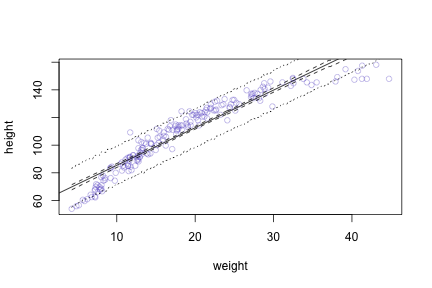
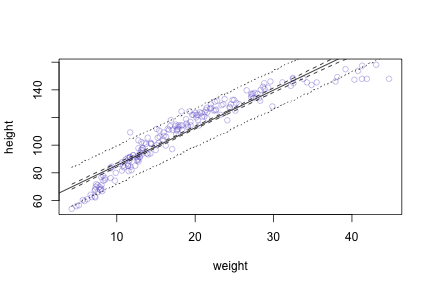
HW3: pr3 revised to use exp (necessary?)

diff --git a/hw3ashander.tex b/hw3ashander.tex
@@ -456,8 +456,8 @@ Note that $h_i$ is column `height` and $w_i$ is column `weight` in the data fram
 \hlstd{}{\ }{\ }{\ }{\ }\hlargument{sd}{\ }\hlargument{=}{\ }\hlsymbol{sigma}\hlkeyword{)}\hlkeyword{,}{\ }\hlargument{data}{\ }\hlargument{=}{\ }\hlsymbol{d2}\hlkeyword{,}{\ }\hlargument{start}{\ }\hlargument{=}{\ }\hlfunctioncall{list}\hlkeyword{(}\hlargument{alpha}{\ }\hlargument{=}{\ }\hlfunctioncall{mean}\hlkeyword{(}\hlsymbol{d2}\hlkeyword{\usebox{\hlnormalsizeboxdollar}}\hlsymbol{height}\hlkeyword{)}\hlkeyword{,}{\ }\hlargument{beta}{\ }\hlargument{=}{\ }\hlnumber{0}\hlkeyword{,}\hspace*{\fill}\\
 \hlstd{}{\ }{\ }{\ }{\ }\hlargument{sigma}{\ }\hlargument{=}{\ }\hlfunctioncall{sd}\hlkeyword{(}\hlsymbol{d2}\hlkeyword{\usebox{\hlnormalsizeboxdollar}}\hlsymbol{height}\hlkeyword{)}\hlkeyword{)}\hlkeyword{)}\hspace*{\fill}\\
 \hlstd{}\hlsymbol{known.weights}{\ }\hlassignement{\usebox{\hlnormalsizeboxlessthan}-}{\ }\hlfunctioncall{c}\hlkeyword{(}\hlnumber{46.95}\hlkeyword{,}{\ }\hlnumber{43.72}\hlkeyword{,}{\ }\hlnumber{64.78}\hlkeyword{,}{\ }\hlnumber{32.59}\hlkeyword{,}{\ }\hlnumber{54.63}\hlkeyword{)}\hspace*{\fill}\\
-\hlstd{}\hlsymbol{post.samples}{\ }\hlassignement{\usebox{\hlnormalsizeboxlessthan}-}{\ }\hlfunctioncall{as.data.frame}\hlkeyword{(}\hlfunctioncall{mvrnorm}\hlkeyword{(}\hlfunctioncall{length}\hlkeyword{(}\hlsymbol{d2}\hlkeyword{\usebox{\hlnormalsizeboxdollar}}\hlsymbol{height}\hlkeyword{)}\hlkeyword{,}\hspace*{\fill}\\
-\hlstd{}{\ }{\ }{\ }{\ }\hlargument{mu}{\ }\hlargument{=}{\ }\hlfunctioncall{coef}\hlkeyword{(}\hlsymbol{mle.hw}\hlkeyword{)}\hlkeyword{,}{\ }\hlargument{Sigma}{\ }\hlargument{=}{\ }\hlfunctioncall{vcov}\hlkeyword{(}\hlsymbol{mle.hw}\hlkeyword{)}\hlkeyword{)}\hlkeyword{)}\hspace*{\fill}\\
+\hlstd{}\hlsymbol{post}{\ }\hlassignement{\usebox{\hlnormalsizeboxlessthan}-}{\ }\hlfunctioncall{as.data.frame}\hlkeyword{(}\hlfunctioncall{mvrnorm}\hlkeyword{(}\hlfunctioncall{length}\hlkeyword{(}\hlsymbol{d2}\hlkeyword{\usebox{\hlnormalsizeboxdollar}}\hlsymbol{height}\hlkeyword{)}\hlkeyword{,}{\ }\hlargument{mu}{\ }\hlargument{=}{\ }\hlfunctioncall{coef}\hlkeyword{(}\hlsymbol{mle.hw}\hlkeyword{)}\hlkeyword{,}\hspace*{\fill}\\
+\hlstd{}{\ }{\ }{\ }{\ }\hlargument{Sigma}{\ }\hlargument{=}{\ }\hlfunctioncall{vcov}\hlkeyword{(}\hlsymbol{mle.hw}\hlkeyword{)}\hlkeyword{)}\hlkeyword{)}\hspace*{\fill}\\
 \hlstd{}\hlsymbol{Pred.mean}{\ }\hlassignement{\usebox{\hlnormalsizeboxlessthan}-}{\ }\hlkeyword{function}\hlkeyword{(}\hlformalargs{x}\hlkeyword{)}{\ }\hlkeyword{\usebox{\hlnormalsizeboxopenbrace}}\hspace*{\fill}\\
 \hlstd{}{\ }{\ }{\ }{\ }\hlsymbol{ret}{\ }\hlassignement{\usebox{\hlnormalsizeboxlessthan}-}{\ }\hlfunctioncall{coef}\hlkeyword{(}\hlsymbol{mle.hw}\hlkeyword{)}\hlkeyword{[}\hlstring{"alpha"}\hlkeyword{]}{\ }\hlkeyword{+}{\ }\hlfunctioncall{coef}\hlkeyword{(}\hlsymbol{mle.hw}\hlkeyword{)}\hlkeyword{[}\hlstring{"beta"}\hlkeyword{]}{\ }\hlkeyword{*}{\ }\hlsymbol{x}\hspace*{\fill}\\
 \hlstd{}{\ }{\ }{\ }{\ }\hlfunctioncall{names}\hlkeyword{(}\hlsymbol{ret}\hlkeyword{)}{\ }\hlassignement{\usebox{\hlnormalsizeboxlessthan}-}{\ }\hlfunctioncall{c}\hlkeyword{(}\hlstring{""}\hlkeyword{)}\hspace*{\fill}\\
@@ -465,8 +465,8 @@ Note that $h_i$ is column `height` and $w_i$ is column `weight` in the data fram
 \hlstd{}\hlkeyword{\usebox{\hlnormalsizeboxclosebrace}}\hspace*{\fill}\\
 \hlstd{}\hspace*{\fill}\\
 \hlstd{}\hlsymbol{height.PI}{\ }\hlassignement{\usebox{\hlnormalsizeboxlessthan}-}{\ }\hlfunctioncall{sapply}\hlkeyword{(}\hlsymbol{known.weights}\hlkeyword{,}{\ }\hlkeyword{function}\hlkeyword{(}\hlformalargs{x}\hlkeyword{)}{\ }\hlkeyword{\usebox{\hlnormalsizeboxopenbrace}}\hspace*{\fill}\\
-\hlstd{}{\ }{\ }{\ }{\ }\hlfunctioncall{HPDI}\hlkeyword{(}\hlfunctioncall{rnorm}\hlkeyword{(}\hlargument{n}{\ }\hlargument{=}{\ }\hlnumber{10000}\hlkeyword{,}{\ }\hlargument{mean}{\ }\hlargument{=}{\ }\hlsymbol{post.samples}\hlkeyword{\usebox{\hlnormalsizeboxdollar}}\hlsymbol{alpha}{\ }\hlkeyword{+}{\ }\hlsymbol{post.samples}\hlkeyword{\usebox{\hlnormalsizeboxdollar}}\hlsymbol{beta}{\ }\hlkeyword{*}\hspace*{\fill}\\
-\hlstd{}{\ }{\ }{\ }{\ }{\ }{\ }{\ }{\ }\hlsymbol{x}\hlkeyword{,}{\ }\hlargument{sd}{\ }\hlargument{=}{\ }\hlsymbol{post.samples}\hlkeyword{\usebox{\hlnormalsizeboxdollar}}\hlsymbol{sigma}\hlkeyword{)}\hlkeyword{,}{\ }\hlargument{prob}{\ }\hlargument{=}{\ }\hlnumber{0.9}\hlkeyword{)}\hspace*{\fill}\\
+\hlstd{}{\ }{\ }{\ }{\ }\hlfunctioncall{HPDI}\hlkeyword{(}\hlfunctioncall{rnorm}\hlkeyword{(}\hlargument{n}{\ }\hlargument{=}{\ }\hlnumber{10000}\hlkeyword{,}{\ }\hlargument{mean}{\ }\hlargument{=}{\ }\hlsymbol{post}\hlkeyword{\usebox{\hlnormalsizeboxdollar}}\hlsymbol{alpha}{\ }\hlkeyword{+}{\ }\hlsymbol{post}\hlkeyword{\usebox{\hlnormalsizeboxdollar}}\hlsymbol{beta}{\ }\hlkeyword{*}{\ }\hlsymbol{x}\hlkeyword{,}{\ }\hlargument{sd}{\ }\hlargument{=}{\ }\hlsymbol{post}\hlkeyword{\usebox{\hlnormalsizeboxdollar}}\hlsymbol{sigma}\hlkeyword{)}\hlkeyword{,}\hspace*{\fill}\\
+\hlstd{}{\ }{\ }{\ }{\ }{\ }{\ }{\ }{\ }\hlargument{prob}{\ }\hlargument{=}{\ }\hlnumber{0.9}\hlkeyword{)}\hspace*{\fill}\\
 \hlstd{}\hlkeyword{\usebox{\hlnormalsizeboxclosebrace}}\hlkeyword{)}\hspace*{\fill}\\
 \hlstd{}\hlsymbol{height.mean}{\ }\hlassignement{\usebox{\hlnormalsizeboxlessthan}-}{\ }\hlfunctioncall{sapply}\hlkeyword{(}\hlsymbol{known.weights}\hlkeyword{,}{\ }\hlsymbol{Pred.mean}\hlkeyword{)}\hspace*{\fill}\\
 \hlstd{}\hspace*{\fill}\\
@@ -477,11 +477,11 @@ Note that $h_i$ is column `height` and $w_i$ is column `weight` in the data fram
 \end{flushleft}
 \begin{verbatim}
 ##  individual known.weights expected.height lower.90 upper.90
-##           1         46.95           156.4    147.8    164.6
-##           2         43.72           153.4    144.6    161.3
-##           3         64.78           172.5    164.1    180.8
-##           4         32.59           143.4    134.7    151.4
-##           5         54.63           163.3    155.2    171.8
+##           1         46.95           156.4    147.8    164.3
+##           2         43.72           153.4    145.0    161.5
+##           3         64.78           172.5    163.7    180.9
+##           4         32.59           143.4    135.2    151.8
+##           5         54.63           163.3    154.8    171.4
 \end{verbatim}
 \end{kframe}}
 \end{knitrout}
@@ -528,18 +528,18 @@ A simple interpretation of the coefficients implies:
 \begin{flushleft}
 \ttfamily\noindent
 \hlcomment{\usebox{\hlnormalsizeboxhash}sample{\ }posterior}\hspace*{\fill}\\
-\hlstd{}\hlsymbol{postY.samples}{\ }\hlassignement{\usebox{\hlnormalsizeboxlessthan}-}{\ }\hlfunctioncall{as.data.frame}\hlkeyword{(}\hlfunctioncall{mvrnorm}\hlkeyword{(}\hlfunctioncall{length}\hlkeyword{(}\hlsymbol{dY}\hlkeyword{\usebox{\hlnormalsizeboxdollar}}\hlsymbol{height}\hlkeyword{)}\hlkeyword{,}\hspace*{\fill}\\
-\hlstd{}{\ }{\ }{\ }{\ }\hlargument{mu}{\ }\hlargument{=}{\ }\hlfunctioncall{coef}\hlkeyword{(}\hlsymbol{mle.hwY}\hlkeyword{)}\hlkeyword{,}{\ }\hlargument{Sigma}{\ }\hlargument{=}{\ }\hlfunctioncall{vcov}\hlkeyword{(}\hlsymbol{mle.hwY}\hlkeyword{)}\hlkeyword{)}\hlkeyword{)}\hspace*{\fill}\\
+\hlstd{}\hlsymbol{postY}{\ }\hlassignement{\usebox{\hlnormalsizeboxlessthan}-}{\ }\hlfunctioncall{as.data.frame}\hlkeyword{(}\hlfunctioncall{mvrnorm}\hlkeyword{(}\hlfunctioncall{length}\hlkeyword{(}\hlsymbol{dY}\hlkeyword{\usebox{\hlnormalsizeboxdollar}}\hlsymbol{height}\hlkeyword{)}\hlkeyword{,}{\ }\hlargument{mu}{\ }\hlargument{=}{\ }\hlfunctioncall{coef}\hlkeyword{(}\hlsymbol{mle.hwY}\hlkeyword{)}\hlkeyword{,}\hspace*{\fill}\\
+\hlstd{}{\ }{\ }{\ }{\ }\hlargument{Sigma}{\ }\hlargument{=}{\ }\hlfunctioncall{vcov}\hlkeyword{(}\hlsymbol{mle.hwY}\hlkeyword{)}\hlkeyword{)}\hlkeyword{)}\hspace*{\fill}\\
 \hlstd{}\hspace*{\fill}\\
 \hlstd{}\hlcomment{\usebox{\hlnormalsizeboxhash}{\ }calculate{\ }CI{\ }for{\ }mean}\hspace*{\fill}\\
 \hlstd{}\hlsymbol{weight.range}{\ }\hlassignement{\usebox{\hlnormalsizeboxlessthan}-}{\ }\hlfunctioncall{seq}\hlkeyword{(}\hlfunctioncall{min}\hlkeyword{(}\hlsymbol{dY}\hlkeyword{\usebox{\hlnormalsizeboxdollar}}\hlsymbol{weight}\hlkeyword{)}\hlkeyword{,}{\ }\hlfunctioncall{max}\hlkeyword{(}\hlsymbol{dY}\hlkeyword{\usebox{\hlnormalsizeboxdollar}}\hlsymbol{weight}\hlkeyword{)}\hlkeyword{,}{\ }\hlnumber{0.2}\hlkeyword{)}\hspace*{\fill}\\
 \hlstd{}\hlsymbol{heightY.CI}{\ }\hlassignement{\usebox{\hlnormalsizeboxlessthan}-}{\ }\hlfunctioncall{sapply}\hlkeyword{(}\hlsymbol{weight.range}\hlkeyword{,}{\ }\hlkeyword{function}\hlkeyword{(}\hlformalargs{x}\hlkeyword{)}{\ }\hlkeyword{\usebox{\hlnormalsizeboxopenbrace}}\hspace*{\fill}\\
-\hlstd{}{\ }{\ }{\ }{\ }\hlfunctioncall{HPDI}\hlkeyword{(}\hlsymbol{postY.samples}\hlkeyword{\usebox{\hlnormalsizeboxdollar}}\hlsymbol{alpha}{\ }\hlkeyword{+}{\ }\hlsymbol{postY.samples}\hlkeyword{\usebox{\hlnormalsizeboxdollar}}\hlsymbol{beta}{\ }\hlkeyword{*}{\ }\hlsymbol{x}\hlkeyword{,}{\ }\hlargument{prob}{\ }\hlargument{=}{\ }\hlnumber{0.9}\hlkeyword{)}\hspace*{\fill}\\
+\hlstd{}{\ }{\ }{\ }{\ }\hlfunctioncall{HPDI}\hlkeyword{(}\hlsymbol{postY}\hlkeyword{\usebox{\hlnormalsizeboxdollar}}\hlsymbol{alpha}{\ }\hlkeyword{+}{\ }\hlsymbol{postY}\hlkeyword{\usebox{\hlnormalsizeboxdollar}}\hlsymbol{beta}{\ }\hlkeyword{*}{\ }\hlsymbol{x}\hlkeyword{,}{\ }\hlargument{prob}{\ }\hlargument{=}{\ }\hlnumber{0.9}\hlkeyword{)}\hspace*{\fill}\\
 \hlstd{}\hlkeyword{\usebox{\hlnormalsizeboxclosebrace}}\hlkeyword{)}\hspace*{\fill}\\
 \hlstd{}\hlcomment{\usebox{\hlnormalsizeboxhash}{\ }calculate{\ }PI{\ }for{\ }mean}\hspace*{\fill}\\
 \hlstd{}\hlsymbol{heightY.PI}{\ }\hlassignement{\usebox{\hlnormalsizeboxlessthan}-}{\ }\hlfunctioncall{sapply}\hlkeyword{(}\hlsymbol{weight.range}\hlkeyword{,}{\ }\hlkeyword{function}\hlkeyword{(}\hlformalargs{x}\hlkeyword{)}{\ }\hlkeyword{\usebox{\hlnormalsizeboxopenbrace}}\hspace*{\fill}\\
-\hlstd{}{\ }{\ }{\ }{\ }\hlfunctioncall{HPDI}\hlkeyword{(}\hlfunctioncall{rnorm}\hlkeyword{(}\hlnumber{10000}\hlkeyword{,}{\ }\hlargument{mean}{\ }\hlargument{=}{\ }\hlkeyword{(}\hlsymbol{postY.samples}\hlkeyword{\usebox{\hlnormalsizeboxdollar}}\hlsymbol{alpha}{\ }\hlkeyword{+}{\ }\hlsymbol{postY.samples}\hlkeyword{\usebox{\hlnormalsizeboxdollar}}\hlsymbol{beta}{\ }\hlkeyword{*}\hspace*{\fill}\\
-\hlstd{}{\ }{\ }{\ }{\ }{\ }{\ }{\ }{\ }\hlsymbol{x}\hlkeyword{)}\hlkeyword{,}{\ }\hlargument{sd}{\ }\hlargument{=}{\ }\hlsymbol{postY.samples}\hlkeyword{\usebox{\hlnormalsizeboxdollar}}\hlsymbol{sigma}\hlkeyword{)}\hlkeyword{,}{\ }\hlargument{prob}{\ }\hlargument{=}{\ }\hlnumber{0.9}\hlkeyword{)}\hspace*{\fill}\\
+\hlstd{}{\ }{\ }{\ }{\ }\hlfunctioncall{HPDI}\hlkeyword{(}\hlfunctioncall{rnorm}\hlkeyword{(}\hlnumber{10000}\hlkeyword{,}{\ }\hlargument{mean}{\ }\hlargument{=}{\ }\hlkeyword{(}\hlsymbol{postY}\hlkeyword{\usebox{\hlnormalsizeboxdollar}}\hlsymbol{alpha}{\ }\hlkeyword{+}{\ }\hlsymbol{postY}\hlkeyword{\usebox{\hlnormalsizeboxdollar}}\hlsymbol{beta}{\ }\hlkeyword{*}{\ }\hlsymbol{x}\hlkeyword{)}\hlkeyword{,}{\ }\hlargument{sd}{\ }\hlargument{=}{\ }\hlsymbol{postY}\hlkeyword{\usebox{\hlnormalsizeboxdollar}}\hlsymbol{sigma}\hlkeyword{)}\hlkeyword{,}\hspace*{\fill}\\
+\hlstd{}{\ }{\ }{\ }{\ }{\ }{\ }{\ }{\ }\hlargument{prob}{\ }\hlargument{=}{\ }\hlnumber{0.9}\hlkeyword{)}\hspace*{\fill}\\
 \hlstd{}\hlkeyword{\usebox{\hlnormalsizeboxclosebrace}}\hlkeyword{)}\hspace*{\fill}\\
 \hlstd{}\hspace*{\fill}\\
 \hlstd{}\hlcomment{\usebox{\hlnormalsizeboxhash}{\ }plot{\ }TODO:{\ }clean{\ }this{\ }up,{\ }maybe{\ }rewrite{\ }as{\ }ggplot}\hspace*{\fill}\\
@@ -586,11 +586,11 @@ First, we fit model, using a quadratic approximation of the likelihood
 \definecolor{shadecolor}{rgb}{.97, .97, .97}{\color{fgcolor}\begin{kframe}
 \begin{flushleft}
 \ttfamily\noindent
-\hlsymbol{d.f}{\ }\hlassignement{\usebox{\hlnormalsizeboxlessthan}-}{\ }\hlsymbol{Howell1}\hspace*{\fill}\\
-\hlstd{}\hlsymbol{d.f}\hlkeyword{\usebox{\hlnormalsizeboxdollar}}\hlsymbol{logw}{\ }\hlassignement{\usebox{\hlnormalsizeboxlessthan}-}{\ }\hlfunctioncall{log}\hlkeyword{(}\hlsymbol{d.f}\hlkeyword{\usebox{\hlnormalsizeboxdollar}}\hlsymbol{weight}\hlkeyword{)}\hspace*{\fill}\\
-\hlstd{}\hlsymbol{mle.loghw}{\ }\hlassignement{\usebox{\hlnormalsizeboxlessthan}-}{\ }\hlfunctioncall{mle2}\hlkeyword{(}\hlsymbol{height}{\ }\hlkeyword{\urltilda{}}{\ }\hlfunctioncall{dnorm}\hlkeyword{(}\hlargument{mean}{\ }\hlargument{=}{\ }\hlsymbol{alpha}{\ }\hlkeyword{+}{\ }\hlsymbol{beta}{\ }\hlkeyword{*}{\ }\hlsymbol{logw}\hlkeyword{,}\hspace*{\fill}\\
-\hlstd{}{\ }{\ }{\ }{\ }\hlargument{sd}{\ }\hlargument{=}{\ }\hlsymbol{sigma}\hlkeyword{)}\hlkeyword{,}{\ }\hlargument{data}{\ }\hlargument{=}{\ }\hlsymbol{d.f}\hlkeyword{,}{\ }\hlargument{start}{\ }\hlargument{=}{\ }\hlfunctioncall{list}\hlkeyword{(}\hlargument{alpha}{\ }\hlargument{=}{\ }\hlfunctioncall{mean}\hlkeyword{(}\hlsymbol{d.f}\hlkeyword{\usebox{\hlnormalsizeboxdollar}}\hlsymbol{height}\hlkeyword{)}\hlkeyword{,}\hspace*{\fill}\\
-\hlstd{}{\ }{\ }{\ }{\ }\hlargument{beta}{\ }\hlargument{=}{\ }\hlnumber{0}\hlkeyword{,}{\ }\hlargument{sigma}{\ }\hlargument{=}{\ }\hlfunctioncall{sd}\hlkeyword{(}\hlsymbol{d.f}\hlkeyword{\usebox{\hlnormalsizeboxdollar}}\hlsymbol{height}\hlkeyword{)}\hlkeyword{)}\hlkeyword{)}\hspace*{\fill}\\
+\hlsymbol{d}{\ }\hlassignement{\usebox{\hlnormalsizeboxlessthan}-}{\ }\hlsymbol{Howell1}\hspace*{\fill}\\
+\hlstd{}\hlsymbol{d}\hlkeyword{\usebox{\hlnormalsizeboxdollar}}\hlsymbol{log.w}{\ }\hlassignement{\usebox{\hlnormalsizeboxlessthan}-}{\ }\hlfunctioncall{log}\hlkeyword{(}\hlsymbol{d}\hlkeyword{\usebox{\hlnormalsizeboxdollar}}\hlsymbol{weight}\hlkeyword{)}\hspace*{\fill}\\
+\hlstd{}\hlsymbol{mle.loghw}{\ }\hlassignement{\usebox{\hlnormalsizeboxlessthan}-}{\ }\hlfunctioncall{mle2}\hlkeyword{(}\hlsymbol{height}{\ }\hlkeyword{\urltilda{}}{\ }\hlfunctioncall{dnorm}\hlkeyword{(}\hlargument{mean}{\ }\hlargument{=}{\ }\hlsymbol{alpha}{\ }\hlkeyword{+}{\ }\hlsymbol{beta}{\ }\hlkeyword{*}{\ }\hlsymbol{log.w}\hlkeyword{,}\hspace*{\fill}\\
+\hlstd{}{\ }{\ }{\ }{\ }\hlargument{sd}{\ }\hlargument{=}{\ }\hlsymbol{sigma}\hlkeyword{)}\hlkeyword{,}{\ }\hlargument{data}{\ }\hlargument{=}{\ }\hlsymbol{d}\hlkeyword{,}{\ }\hlargument{start}{\ }\hlargument{=}{\ }\hlfunctioncall{list}\hlkeyword{(}\hlargument{alpha}{\ }\hlargument{=}{\ }\hlfunctioncall{mean}\hlkeyword{(}\hlsymbol{d}\hlkeyword{\usebox{\hlnormalsizeboxdollar}}\hlsymbol{height}\hlkeyword{)}\hlkeyword{,}{\ }\hlargument{beta}{\ }\hlargument{=}{\ }\hlnumber{0}\hlkeyword{,}\hspace*{\fill}\\
+\hlstd{}{\ }{\ }{\ }{\ }\hlargument{sigma}{\ }\hlargument{=}{\ }\hlfunctioncall{sd}\hlkeyword{(}\hlsymbol{d}\hlkeyword{\usebox{\hlnormalsizeboxdollar}}\hlsymbol{height}\hlkeyword{)}\hlkeyword{)}\hlkeyword{)}\hspace*{\fill}\\
 \hlstd{}\hlfunctioncall{precis}\hlkeyword{(}\hlsymbol{mle.loghw}\hlkeyword{)}\mbox{}
 \normalfont
 \end{flushleft}
@@ -606,47 +606,97 @@ First, we fit model, using a quadratic approximation of the likelihood
 
 \subsubsection{(b)}
 
+The model above is equivalent to
+
+\[\begin{split}h_i \sim Normal(\mu_i, \sigma)\\ \mu_i =\alpha+\beta y_i\\ y_i = \log(w_i),\end{split}\]
+where $h_i$ is the height (in cm), and $w_i$ the weight (in kg) and $y_i$ log weight (in log-kg), of individual $i$. 
+
+
+Now we plot observations $h_i$ against $w_i$, as well as predicted means and 95\% HPDI for mean and predicted heights. 
+In practice, this means plotting
+\begin{itemize}
+  \item $h_i$ against $\exp(y_i)$
+  \item HPDIs computed for each $y_i$ against $\exp(y_i)$
+\end{itemize}
+
+For the mean prediction, however, we directly plot the curve
+\[
+\bar h = \alpha + \beta \log(w_i)
+\]
+
+    
 \begin{knitrout}
 \definecolor{shadecolor}{rgb}{.97, .97, .97}{\color{fgcolor}\begin{kframe}
 \begin{flushleft}
 \ttfamily\noindent
 \hlcomment{\usebox{\hlnormalsizeboxhash}sample{\ }posterior}\hspace*{\fill}\\
-\hlstd{}\hlsymbol{post.full.samples}{\ }\hlassignement{\usebox{\hlnormalsizeboxlessthan}-}{\ }\hlfunctioncall{as.data.frame}\hlkeyword{(}\hlfunctioncall{mvrnorm}\hlkeyword{(}\hlfunctioncall{length}\hlkeyword{(}\hlsymbol{d.f}\hlkeyword{\usebox{\hlnormalsizeboxdollar}}\hlsymbol{height}\hlkeyword{)}\hlkeyword{,}\hspace*{\fill}\\
-\hlstd{}{\ }{\ }{\ }{\ }\hlargument{mu}{\ }\hlargument{=}{\ }\hlfunctioncall{coef}\hlkeyword{(}\hlsymbol{mle.loghw}\hlkeyword{)}\hlkeyword{,}{\ }\hlargument{Sigma}{\ }\hlargument{=}{\ }\hlfunctioncall{vcov}\hlkeyword{(}\hlsymbol{mle.loghw}\hlkeyword{)}\hlkeyword{)}\hlkeyword{)}\hspace*{\fill}\\
+\hlstd{}\hlsymbol{post}{\ }\hlassignement{\usebox{\hlnormalsizeboxlessthan}-}{\ }\hlfunctioncall{as.data.frame}\hlkeyword{(}\hlfunctioncall{mvrnorm}\hlkeyword{(}\hlfunctioncall{length}\hlkeyword{(}\hlsymbol{d}\hlkeyword{\usebox{\hlnormalsizeboxdollar}}\hlsymbol{height}\hlkeyword{)}\hlkeyword{,}{\ }\hlargument{mu}{\ }\hlargument{=}{\ }\hlfunctioncall{coef}\hlkeyword{(}\hlsymbol{mle.loghw}\hlkeyword{)}\hlkeyword{,}\hspace*{\fill}\\
+\hlstd{}{\ }{\ }{\ }{\ }\hlargument{Sigma}{\ }\hlargument{=}{\ }\hlfunctioncall{vcov}\hlkeyword{(}\hlsymbol{mle.loghw}\hlkeyword{)}\hlkeyword{)}\hlkeyword{)}\hspace*{\fill}\\
 \hlstd{}\hspace*{\fill}\\
 \hlstd{}\hlcomment{\usebox{\hlnormalsizeboxhash}{\ }calculate{\ }CI{\ }for{\ }mean}\hspace*{\fill}\\
-\hlstd{}\hlsymbol{weight.range}{\ }\hlassignement{\usebox{\hlnormalsizeboxlessthan}-}{\ }\hlfunctioncall{seq}\hlkeyword{(}\hlfunctioncall{min}\hlkeyword{(}\hlsymbol{d.f}\hlkeyword{\usebox{\hlnormalsizeboxdollar}}\hlsymbol{weight}\hlkeyword{)}\hlkeyword{,}{\ }\hlfunctioncall{max}\hlkeyword{(}\hlsymbol{d.f}\hlkeyword{\usebox{\hlnormalsizeboxdollar}}\hlsymbol{weight}\hlkeyword{)}\hlkeyword{,}{\ }\hlnumber{0.2}\hlkeyword{)}\hspace*{\fill}\\
-\hlstd{}\hlsymbol{heightf.CI}{\ }\hlassignement{\usebox{\hlnormalsizeboxlessthan}-}{\ }\hlfunctioncall{sapply}\hlkeyword{(}\hlsymbol{weight.range}\hlkeyword{,}{\ }\hlkeyword{function}\hlkeyword{(}\hlformalargs{x}\hlkeyword{)}{\ }\hlkeyword{\usebox{\hlnormalsizeboxopenbrace}}\hspace*{\fill}\\
-\hlstd{}{\ }{\ }{\ }{\ }\hlfunctioncall{HPDI}\hlkeyword{(}\hlsymbol{post.full.samples}\hlkeyword{\usebox{\hlnormalsizeboxdollar}}\hlsymbol{alpha}{\ }\hlkeyword{+}{\ }\hlsymbol{post.full.samples}\hlkeyword{\usebox{\hlnormalsizeboxdollar}}\hlsymbol{beta}{\ }\hlkeyword{*}{\ }\hlfunctioncall{log}\hlkeyword{(}\hlsymbol{x}\hlkeyword{)}\hlkeyword{,}\hspace*{\fill}\\
-\hlstd{}{\ }{\ }{\ }{\ }{\ }{\ }{\ }{\ }\hlargument{prob}{\ }\hlargument{=}{\ }\hlnumber{0.95}\hlkeyword{)}\hspace*{\fill}\\
+\hlstd{}\hlsymbol{log.w.range}{\ }\hlassignement{\usebox{\hlnormalsizeboxlessthan}-}{\ }\hlfunctioncall{seq}\hlkeyword{(}\hlfunctioncall{min}\hlkeyword{(}\hlsymbol{d}\hlkeyword{\usebox{\hlnormalsizeboxdollar}}\hlsymbol{log.w}\hlkeyword{)}\hlkeyword{,}{\ }\hlfunctioncall{max}\hlkeyword{(}\hlsymbol{d}\hlkeyword{\usebox{\hlnormalsizeboxdollar}}\hlsymbol{log.w}\hlkeyword{)}\hlkeyword{,}{\ }\hlargument{length.out}{\ }\hlargument{=}{\ }\hlnumber{60}\hlkeyword{)}\hspace*{\fill}\\
+\hlstd{}\hlsymbol{heightf.CI}{\ }\hlassignement{\usebox{\hlnormalsizeboxlessthan}-}{\ }\hlfunctioncall{sapply}\hlkeyword{(}\hlsymbol{log.w.range}\hlkeyword{,}{\ }\hlkeyword{function}\hlkeyword{(}\hlformalargs{x}\hlkeyword{)}{\ }\hlkeyword{\usebox{\hlnormalsizeboxopenbrace}}\hspace*{\fill}\\
+\hlstd{}{\ }{\ }{\ }{\ }\hlfunctioncall{HPDI}\hlkeyword{(}\hlsymbol{post}\hlkeyword{\usebox{\hlnormalsizeboxdollar}}\hlsymbol{alpha}{\ }\hlkeyword{+}{\ }\hlsymbol{post}\hlkeyword{\usebox{\hlnormalsizeboxdollar}}\hlsymbol{beta}{\ }\hlkeyword{*}{\ }\hlsymbol{x}\hlkeyword{,}{\ }\hlargument{prob}{\ }\hlargument{=}{\ }\hlnumber{0.95}\hlkeyword{)}\hspace*{\fill}\\
 \hlstd{}\hlkeyword{\usebox{\hlnormalsizeboxclosebrace}}\hlkeyword{)}\hspace*{\fill}\\
 \hlstd{}\hlcomment{\usebox{\hlnormalsizeboxhash}{\ }calculate{\ }PI{\ }for{\ }mean}\hspace*{\fill}\\
-\hlstd{}\hlsymbol{heightf.PI}{\ }\hlassignement{\usebox{\hlnormalsizeboxlessthan}-}{\ }\hlfunctioncall{sapply}\hlkeyword{(}\hlsymbol{weight.range}\hlkeyword{,}{\ }\hlkeyword{function}\hlkeyword{(}\hlformalargs{x}\hlkeyword{)}{\ }\hlkeyword{\usebox{\hlnormalsizeboxopenbrace}}\hspace*{\fill}\\
-\hlstd{}{\ }{\ }{\ }{\ }\hlfunctioncall{HPDI}\hlkeyword{(}\hlfunctioncall{rnorm}\hlkeyword{(}\hlnumber{10000}\hlkeyword{,}{\ }\hlargument{mean}{\ }\hlargument{=}{\ }\hlkeyword{(}\hlsymbol{post.full.samples}\hlkeyword{\usebox{\hlnormalsizeboxdollar}}\hlsymbol{alpha}{\ }\hlkeyword{+}{\ }\hlsymbol{post.full.samples}\hlkeyword{\usebox{\hlnormalsizeboxdollar}}\hlsymbol{beta}{\ }\hlkeyword{*}\hspace*{\fill}\\
-\hlstd{}{\ }{\ }{\ }{\ }{\ }{\ }{\ }{\ }\hlfunctioncall{log}\hlkeyword{(}\hlsymbol{x}\hlkeyword{)}\hlkeyword{)}\hlkeyword{,}{\ }\hlargument{sd}{\ }\hlargument{=}{\ }\hlsymbol{post.full.samples}\hlkeyword{\usebox{\hlnormalsizeboxdollar}}\hlsymbol{sigma}\hlkeyword{)}\hlkeyword{,}{\ }\hlargument{prob}{\ }\hlargument{=}{\ }\hlnumber{0.95}\hlkeyword{)}\hspace*{\fill}\\
+\hlstd{}\hlsymbol{heightf.PI}{\ }\hlassignement{\usebox{\hlnormalsizeboxlessthan}-}{\ }\hlfunctioncall{sapply}\hlkeyword{(}\hlsymbol{log.w.range}\hlkeyword{,}{\ }\hlkeyword{function}\hlkeyword{(}\hlformalargs{x}\hlkeyword{)}{\ }\hlkeyword{\usebox{\hlnormalsizeboxopenbrace}}\hspace*{\fill}\\
+\hlstd{}{\ }{\ }{\ }{\ }\hlfunctioncall{HPDI}\hlkeyword{(}\hlfunctioncall{rnorm}\hlkeyword{(}\hlnumber{10000}\hlkeyword{,}{\ }\hlargument{mean}{\ }\hlargument{=}{\ }\hlkeyword{(}\hlsymbol{post}\hlkeyword{\usebox{\hlnormalsizeboxdollar}}\hlsymbol{alpha}{\ }\hlkeyword{+}{\ }\hlsymbol{post}\hlkeyword{\usebox{\hlnormalsizeboxdollar}}\hlsymbol{beta}{\ }\hlkeyword{*}{\ }\hlsymbol{x}\hlkeyword{)}\hlkeyword{,}{\ }\hlargument{sd}{\ }\hlargument{=}{\ }\hlsymbol{post}\hlkeyword{\usebox{\hlnormalsizeboxdollar}}\hlsymbol{sigma}\hlkeyword{)}\hlkeyword{,}\hspace*{\fill}\\
+\hlstd{}{\ }{\ }{\ }{\ }{\ }{\ }{\ }{\ }\hlargument{prob}{\ }\hlargument{=}{\ }\hlnumber{0.95}\hlkeyword{)}\hspace*{\fill}\\
 \hlstd{}\hlkeyword{\usebox{\hlnormalsizeboxclosebrace}}\hlkeyword{)}\hspace*{\fill}\\
 \hlstd{}\hspace*{\fill}\\
 \hlstd{}\hlcomment{\usebox{\hlnormalsizeboxhash}{\ }plot{\ }TODO:{\ }clean{\ }this{\ }up,{\ }maybe{\ }rewrite{\ }as{\ }ggplot}\hspace*{\fill}\\
-\hlstd{}\hlfunctioncall{plot}\hlkeyword{(}\hlsymbol{height}{\ }\hlkeyword{\urltilda{}}{\ }\hlsymbol{weight}\hlkeyword{,}{\ }\hlargument{data}{\ }\hlargument{=}{\ }\hlsymbol{Howell1}\hlkeyword{,}{\ }\hlargument{col}{\ }\hlargument{=}{\ }\hlfunctioncall{col.alpha}\hlkeyword{(}\hlstring{"slateblue"}\hlkeyword{,}\hspace*{\fill}\\
+\hlstd{}\hlsymbol{op}{\ }\hlassignement{\usebox{\hlnormalsizeboxlessthan}-}{\ }\hlfunctioncall{par}\hlkeyword{(}\hlargument{mfrow}{\ }\hlargument{=}{\ }\hlfunctioncall{c}\hlkeyword{(}\hlnumber{1}\hlkeyword{,}{\ }\hlnumber{2}\hlkeyword{)}\hlkeyword{)}\hspace*{\fill}\\
+\hlstd{}\hlfunctioncall{plot}\hlkeyword{(}\hlsymbol{height}{\ }\hlkeyword{\urltilda{}}{\ }\hlfunctioncall{exp}\hlkeyword{(}\hlsymbol{log.w}\hlkeyword{)}\hlkeyword{,}{\ }\hlargument{data}{\ }\hlargument{=}{\ }\hlsymbol{d}\hlkeyword{,}{\ }\hlargument{col}{\ }\hlargument{=}{\ }\hlfunctioncall{col.alpha}\hlkeyword{(}\hlstring{"slateblue"}\hlkeyword{,}\hspace*{\fill}\\
 \hlstd{}{\ }{\ }{\ }{\ }\hlnumber{0.4}\hlkeyword{)}\hlkeyword{)}\hspace*{\fill}\\
 \hlstd{}\hlsymbol{Pred.fn}{\ }\hlassignement{\usebox{\hlnormalsizeboxlessthan}-}{\ }\hlkeyword{function}\hlkeyword{(}\hlformalargs{x}\hlkeyword{)}{\ }\hlkeyword{\usebox{\hlnormalsizeboxopenbrace}}\hspace*{\fill}\\
-\hlstd{}{\ }{\ }{\ }{\ }\hlfunctioncall{coef}\hlkeyword{(}\hlsymbol{mle.loghw}\hlkeyword{)}\hlkeyword{[}\hlstring{"alpha"}\hlkeyword{]}{\ }\hlkeyword{+}{\ }\hlfunctioncall{log}\hlkeyword{(}\hlsymbol{x}\hlkeyword{)}{\ }\hlkeyword{*}{\ }\hlfunctioncall{coef}\hlkeyword{(}\hlsymbol{mle.loghw}\hlkeyword{)}\hlkeyword{[}\hlstring{"beta"}\hlkeyword{]}\hspace*{\fill}\\
+\hlstd{}{\ }{\ }{\ }{\ }\hlsymbol{a}{\ }\hlassignement{\usebox{\hlnormalsizeboxlessthan}-}{\ }\hlfunctioncall{coef}\hlkeyword{(}\hlsymbol{mle.loghw}\hlkeyword{)}\hlkeyword{[}\hlstring{"alpha"}\hlkeyword{]}\hspace*{\fill}\\
+\hlstd{}{\ }{\ }{\ }{\ }\hlsymbol{b}{\ }\hlassignement{\usebox{\hlnormalsizeboxlessthan}-}{\ }\hlfunctioncall{coef}\hlkeyword{(}\hlsymbol{mle.loghw}\hlkeyword{)}\hlkeyword{[}\hlstring{"beta"}\hlkeyword{]}\hspace*{\fill}\\
+\hlstd{}{\ }{\ }{\ }{\ }\hlsymbol{a}{\ }\hlkeyword{+}{\ }\hlsymbol{b}{\ }\hlkeyword{*}{\ }\hlfunctioncall{log}\hlkeyword{(}\hlsymbol{x}\hlkeyword{)}\hspace*{\fill}\\
 \hlstd{}\hlkeyword{\usebox{\hlnormalsizeboxclosebrace}}\hspace*{\fill}\\
-\hlstd{}\hlfunctioncall{curve}\hlkeyword{(}\hlsymbol{Pred.fn}\hlkeyword{,}{\ }\hlargument{from}{\ }\hlargument{=}{\ }\hlfunctioncall{min}\hlkeyword{(}\hlsymbol{d.f}\hlkeyword{\usebox{\hlnormalsizeboxdollar}}\hlsymbol{weight}\hlkeyword{)}\hlkeyword{,}{\ }\hlargument{to}{\ }\hlargument{=}{\ }\hlfunctioncall{max}\hlkeyword{(}\hlsymbol{d.f}\hlkeyword{\usebox{\hlnormalsizeboxdollar}}\hlsymbol{weight}\hlkeyword{)}\hlkeyword{,}\hspace*{\fill}\\
+\hlstd{}\hlfunctioncall{curve}\hlkeyword{(}\hlsymbol{Pred.fn}\hlkeyword{,}{\ }\hlargument{from}{\ }\hlargument{=}{\ }\hlfunctioncall{min}\hlkeyword{(}\hlsymbol{d}\hlkeyword{\usebox{\hlnormalsizeboxdollar}}\hlsymbol{weight}\hlkeyword{)}\hlkeyword{,}{\ }\hlargument{to}{\ }\hlargument{=}{\ }\hlfunctioncall{max}\hlkeyword{(}\hlsymbol{d}\hlkeyword{\usebox{\hlnormalsizeboxdollar}}\hlsymbol{weight}\hlkeyword{)}\hlkeyword{,}\hspace*{\fill}\\
 \hlstd{}{\ }{\ }{\ }{\ }\hlargument{add}{\ }\hlargument{=}{\ }\hlsymbol{T}\hlkeyword{)}\hspace*{\fill}\\
+\hlstd{}\hlfunctioncall{lines}\hlkeyword{(}\hlsymbol{heightf.CI}\hlkeyword{[}\hlstring{"lower"}\hlkeyword{,}{\ }\hlkeyword{]}{\ }\hlkeyword{\urltilda{}}{\ }\hlfunctioncall{exp}\hlkeyword{(}\hlsymbol{log.w.range}\hlkeyword{)}\hlkeyword{,}{\ }\hlargument{lty}{\ }\hlargument{=}{\ }\hlnumber{2}\hlkeyword{)}\hspace*{\fill}\\
+\hlstd{}\hlfunctioncall{lines}\hlkeyword{(}\hlsymbol{heightf.CI}\hlkeyword{[}\hlstring{"upper"}\hlkeyword{,}{\ }\hlkeyword{]}{\ }\hlkeyword{\urltilda{}}{\ }\hlfunctioncall{exp}\hlkeyword{(}\hlsymbol{log.w.range}\hlkeyword{)}\hlkeyword{,}{\ }\hlargument{lty}{\ }\hlargument{=}{\ }\hlnumber{2}\hlkeyword{)}\hspace*{\fill}\\
+\hlstd{}\hlfunctioncall{lines}\hlkeyword{(}\hlsymbol{heightf.PI}\hlkeyword{[}\hlstring{"upper"}\hlkeyword{,}{\ }\hlkeyword{]}{\ }\hlkeyword{\urltilda{}}{\ }\hlfunctioncall{exp}\hlkeyword{(}\hlsymbol{log.w.range}\hlkeyword{)}\hlkeyword{,}{\ }\hlargument{lty}{\ }\hlargument{=}{\ }\hlnumber{3}\hlkeyword{)}\hspace*{\fill}\\
+\hlstd{}\hlfunctioncall{lines}\hlkeyword{(}\hlsymbol{heightf.PI}\hlkeyword{[}\hlstring{"lower"}\hlkeyword{,}{\ }\hlkeyword{]}{\ }\hlkeyword{\urltilda{}}{\ }\hlfunctioncall{exp}\hlkeyword{(}\hlsymbol{log.w.range}\hlkeyword{)}\hlkeyword{,}{\ }\hlargument{lty}{\ }\hlargument{=}{\ }\hlnumber{3}\hlkeyword{)}\hspace*{\fill}\\
+\hlstd{}\hspace*{\fill}\\
+\hlstd{}\hspace*{\fill}\\
+\hlstd{}\hlcomment{\usebox{\hlnormalsizeboxhash}other{\ }way..}\hspace*{\fill}\\
+\hlstd{}\hlsymbol{m2}{\ }\hlassignement{\usebox{\hlnormalsizeboxlessthan}-}{\ }\hlfunctioncall{mle2}\hlkeyword{(}\hlsymbol{height}{\ }\hlkeyword{\urltilda{}}{\ }\hlfunctioncall{dnorm}\hlkeyword{(}\hlargument{mean}{\ }\hlargument{=}{\ }\hlsymbol{alpha}{\ }\hlkeyword{+}{\ }\hlsymbol{beta}{\ }\hlkeyword{*}{\ }\hlsymbol{log.w}\hlkeyword{,}{\ }\hlargument{sd}{\ }\hlargument{=}{\ }\hlsymbol{sigma}\hlkeyword{)}\hlkeyword{,}\hspace*{\fill}\\
+\hlstd{}{\ }{\ }{\ }{\ }\hlargument{data}{\ }\hlargument{=}{\ }\hlsymbol{d}\hlkeyword{,}{\ }\hlargument{start}{\ }\hlargument{=}{\ }\hlfunctioncall{list}\hlkeyword{(}\hlargument{alpha}{\ }\hlargument{=}{\ }\hlfunctioncall{mean}\hlkeyword{(}\hlsymbol{d}\hlkeyword{\usebox{\hlnormalsizeboxdollar}}\hlsymbol{height}\hlkeyword{)}\hlkeyword{,}{\ }\hlargument{beta}{\ }\hlargument{=}{\ }\hlnumber{0}\hlkeyword{,}{\ }\hlargument{sigma}{\ }\hlargument{=}{\ }\hlfunctioncall{sd}\hlkeyword{(}\hlsymbol{d}\hlkeyword{\usebox{\hlnormalsizeboxdollar}}\hlsymbol{height}\hlkeyword{)}\hlkeyword{)}\hlkeyword{)}\hspace*{\fill}\\
+\hlstd{}\hspace*{\fill}\\
+\hlstd{}\hlsymbol{post2}{\ }\hlassignement{\usebox{\hlnormalsizeboxlessthan}-}{\ }\hlfunctioncall{as.data.frame}\hlkeyword{(}\hlfunctioncall{mvrnorm}\hlkeyword{(}\hlfunctioncall{length}\hlkeyword{(}\hlsymbol{d}\hlkeyword{\usebox{\hlnormalsizeboxdollar}}\hlsymbol{height}\hlkeyword{)}\hlkeyword{,}{\ }\hlargument{mu}{\ }\hlargument{=}{\ }\hlfunctioncall{coef}\hlkeyword{(}\hlsymbol{m2}\hlkeyword{)}\hlkeyword{,}\hspace*{\fill}\\
+\hlstd{}{\ }{\ }{\ }{\ }\hlargument{Sigma}{\ }\hlargument{=}{\ }\hlfunctioncall{vcov}\hlkeyword{(}\hlsymbol{m2}\hlkeyword{)}\hlkeyword{)}\hlkeyword{)}\hspace*{\fill}\\
+\hlstd{}\hspace*{\fill}\\
+\hlstd{}\hlsymbol{weight.range}{\ }\hlassignement{\usebox{\hlnormalsizeboxlessthan}-}{\ }\hlfunctioncall{seq}\hlkeyword{(}\hlfunctioncall{min}\hlkeyword{(}\hlsymbol{d}\hlkeyword{\usebox{\hlnormalsizeboxdollar}}\hlsymbol{weight}\hlkeyword{)}\hlkeyword{,}{\ }\hlfunctioncall{max}\hlkeyword{(}\hlsymbol{d}\hlkeyword{\usebox{\hlnormalsizeboxdollar}}\hlsymbol{weight}\hlkeyword{)}\hlkeyword{,}{\ }\hlargument{length.out}{\ }\hlargument{=}{\ }\hlnumber{60}\hlkeyword{)}\hspace*{\fill}\\
+\hlstd{}\hlsymbol{heightf.CI}{\ }\hlassignement{\usebox{\hlnormalsizeboxlessthan}-}{\ }\hlfunctioncall{sapply}\hlkeyword{(}\hlsymbol{weight.range}\hlkeyword{,}{\ }\hlkeyword{function}\hlkeyword{(}\hlformalargs{x}\hlkeyword{)}{\ }\hlkeyword{\usebox{\hlnormalsizeboxopenbrace}}\hspace*{\fill}\\
+\hlstd{}{\ }{\ }{\ }{\ }\hlfunctioncall{HPDI}\hlkeyword{(}\hlsymbol{post2}\hlkeyword{\usebox{\hlnormalsizeboxdollar}}\hlsymbol{alpha}{\ }\hlkeyword{+}{\ }\hlsymbol{post2}\hlkeyword{\usebox{\hlnormalsizeboxdollar}}\hlsymbol{beta}{\ }\hlkeyword{*}{\ }\hlfunctioncall{log}\hlkeyword{(}\hlsymbol{x}\hlkeyword{)}\hlkeyword{,}{\ }\hlargument{prob}{\ }\hlargument{=}{\ }\hlnumber{0.95}\hlkeyword{)}\hspace*{\fill}\\
+\hlstd{}\hlkeyword{\usebox{\hlnormalsizeboxclosebrace}}\hlkeyword{)}\hspace*{\fill}\\
+\hlstd{}\hspace*{\fill}\\
+\hlstd{}\hlsymbol{heightf.PI}{\ }\hlassignement{\usebox{\hlnormalsizeboxlessthan}-}{\ }\hlfunctioncall{sapply}\hlkeyword{(}\hlsymbol{weight.range}\hlkeyword{,}{\ }\hlkeyword{function}\hlkeyword{(}\hlformalargs{x}\hlkeyword{)}{\ }\hlkeyword{\usebox{\hlnormalsizeboxopenbrace}}\hspace*{\fill}\\
+\hlstd{}{\ }{\ }{\ }{\ }\hlfunctioncall{HPDI}\hlkeyword{(}\hlfunctioncall{rnorm}\hlkeyword{(}\hlnumber{10000}\hlkeyword{,}{\ }\hlargument{mean}{\ }\hlargument{=}{\ }\hlkeyword{(}\hlsymbol{post2}\hlkeyword{\usebox{\hlnormalsizeboxdollar}}\hlsymbol{alpha}{\ }\hlkeyword{+}{\ }\hlsymbol{post2}\hlkeyword{\usebox{\hlnormalsizeboxdollar}}\hlsymbol{beta}{\ }\hlkeyword{*}{\ }\hlfunctioncall{log}\hlkeyword{(}\hlsymbol{x}\hlkeyword{)}\hlkeyword{)}\hlkeyword{,}{\ }\hlargument{sd}{\ }\hlargument{=}{\ }\hlsymbol{post2}\hlkeyword{\usebox{\hlnormalsizeboxdollar}}\hlsymbol{sigma}\hlkeyword{)}\hlkeyword{,}\hspace*{\fill}\\
+\hlstd{}{\ }{\ }{\ }{\ }{\ }{\ }{\ }{\ }\hlargument{prob}{\ }\hlargument{=}{\ }\hlnumber{0.95}\hlkeyword{)}\hspace*{\fill}\\
+\hlstd{}\hlkeyword{\usebox{\hlnormalsizeboxclosebrace}}\hlkeyword{)}\hspace*{\fill}\\
+\hlstd{}\hspace*{\fill}\\
+\hlstd{}\hlfunctioncall{plot}\hlkeyword{(}\hlsymbol{height}{\ }\hlkeyword{\urltilda{}}{\ }\hlsymbol{weight}\hlkeyword{,}{\ }\hlargument{data}{\ }\hlargument{=}{\ }\hlsymbol{d}\hlkeyword{,}{\ }\hlargument{col}{\ }\hlargument{=}{\ }\hlfunctioncall{col.alpha}\hlkeyword{(}\hlstring{"orange"}\hlkeyword{,}\hspace*{\fill}\\
+\hlstd{}{\ }{\ }{\ }{\ }\hlnumber{0.4}\hlkeyword{)}\hlkeyword{)}\hspace*{\fill}\\
+\hlstd{}\hlfunctioncall{curve}\hlkeyword{(}\hlfunctioncall{coef}\hlkeyword{(}\hlsymbol{m2}\hlkeyword{)}\hlkeyword{[}\hlstring{"alpha"}\hlkeyword{]}{\ }\hlkeyword{+}{\ }\hlfunctioncall{log}\hlkeyword{(}\hlsymbol{x}\hlkeyword{)}{\ }\hlkeyword{*}{\ }\hlfunctioncall{coef}\hlkeyword{(}\hlsymbol{m2}\hlkeyword{)}\hlkeyword{[}\hlstring{"beta"}\hlkeyword{]}\hlkeyword{,}{\ }\hlargument{from}{\ }\hlargument{=}{\ }\hlfunctioncall{min}\hlkeyword{(}\hlsymbol{d}\hlkeyword{\usebox{\hlnormalsizeboxdollar}}\hlsymbol{weight}\hlkeyword{)}\hlkeyword{,}\hspace*{\fill}\\
+\hlstd{}{\ }{\ }{\ }{\ }\hlargument{to}{\ }\hlargument{=}{\ }\hlfunctioncall{max}\hlkeyword{(}\hlsymbol{d}\hlkeyword{\usebox{\hlnormalsizeboxdollar}}\hlsymbol{weight}\hlkeyword{)}\hlkeyword{,}{\ }\hlargument{add}{\ }\hlargument{=}{\ }\hlsymbol{T}\hlkeyword{)}\hspace*{\fill}\\
 \hlstd{}\hlfunctioncall{lines}\hlkeyword{(}\hlsymbol{heightf.CI}\hlkeyword{[}\hlstring{"lower"}\hlkeyword{,}{\ }\hlkeyword{]}{\ }\hlkeyword{\urltilda{}}{\ }\hlsymbol{weight.range}\hlkeyword{,}{\ }\hlargument{lty}{\ }\hlargument{=}{\ }\hlnumber{2}\hlkeyword{)}\hspace*{\fill}\\
 \hlstd{}\hlfunctioncall{lines}\hlkeyword{(}\hlsymbol{heightf.CI}\hlkeyword{[}\hlstring{"upper"}\hlkeyword{,}{\ }\hlkeyword{]}{\ }\hlkeyword{\urltilda{}}{\ }\hlsymbol{weight.range}\hlkeyword{,}{\ }\hlargument{lty}{\ }\hlargument{=}{\ }\hlnumber{2}\hlkeyword{)}\hspace*{\fill}\\
 \hlstd{}\hlfunctioncall{lines}\hlkeyword{(}\hlsymbol{heightf.PI}\hlkeyword{[}\hlstring{"upper"}\hlkeyword{,}{\ }\hlkeyword{]}{\ }\hlkeyword{\urltilda{}}{\ }\hlsymbol{weight.range}\hlkeyword{,}{\ }\hlargument{lty}{\ }\hlargument{=}{\ }\hlnumber{3}\hlkeyword{)}\hspace*{\fill}\\
 \hlstd{}\hlfunctioncall{lines}\hlkeyword{(}\hlsymbol{heightf.PI}\hlkeyword{[}\hlstring{"lower"}\hlkeyword{,}{\ }\hlkeyword{]}{\ }\hlkeyword{\urltilda{}}{\ }\hlsymbol{weight.range}\hlkeyword{,}{\ }\hlargument{lty}{\ }\hlargument{=}{\ }\hlnumber{3}\hlkeyword{)}\mbox{}
 \normalfont
 \end{flushleft}
-\includegraphics{all-data} \end{kframe}}
+\includegraphics{all-data} \begin{flushleft}
+\ttfamily\noindent
+\hlfunctioncall{par}\hlkeyword{(}\hlsymbol{op}\hlkeyword{)}\mbox{}
+\normalfont
+\end{flushleft}
+\end{kframe}}
 \end{knitrout}
 
 
-Then use samples from the naive posterior of the model in (a) to superimpose on the plot (1) the predicted mean height as a function of weight, (2) the 95\% HPDI for the mean, and (3) the 95\% HPDI for predicted heights. 
-The trick here lies in appreciating that the model was fit using log(weight) but that you must plot the predictions using raw weight as the horizontal axis. 
-Remember that the opposite of log is exp.
 
 \subsection*{Colophon}
 
